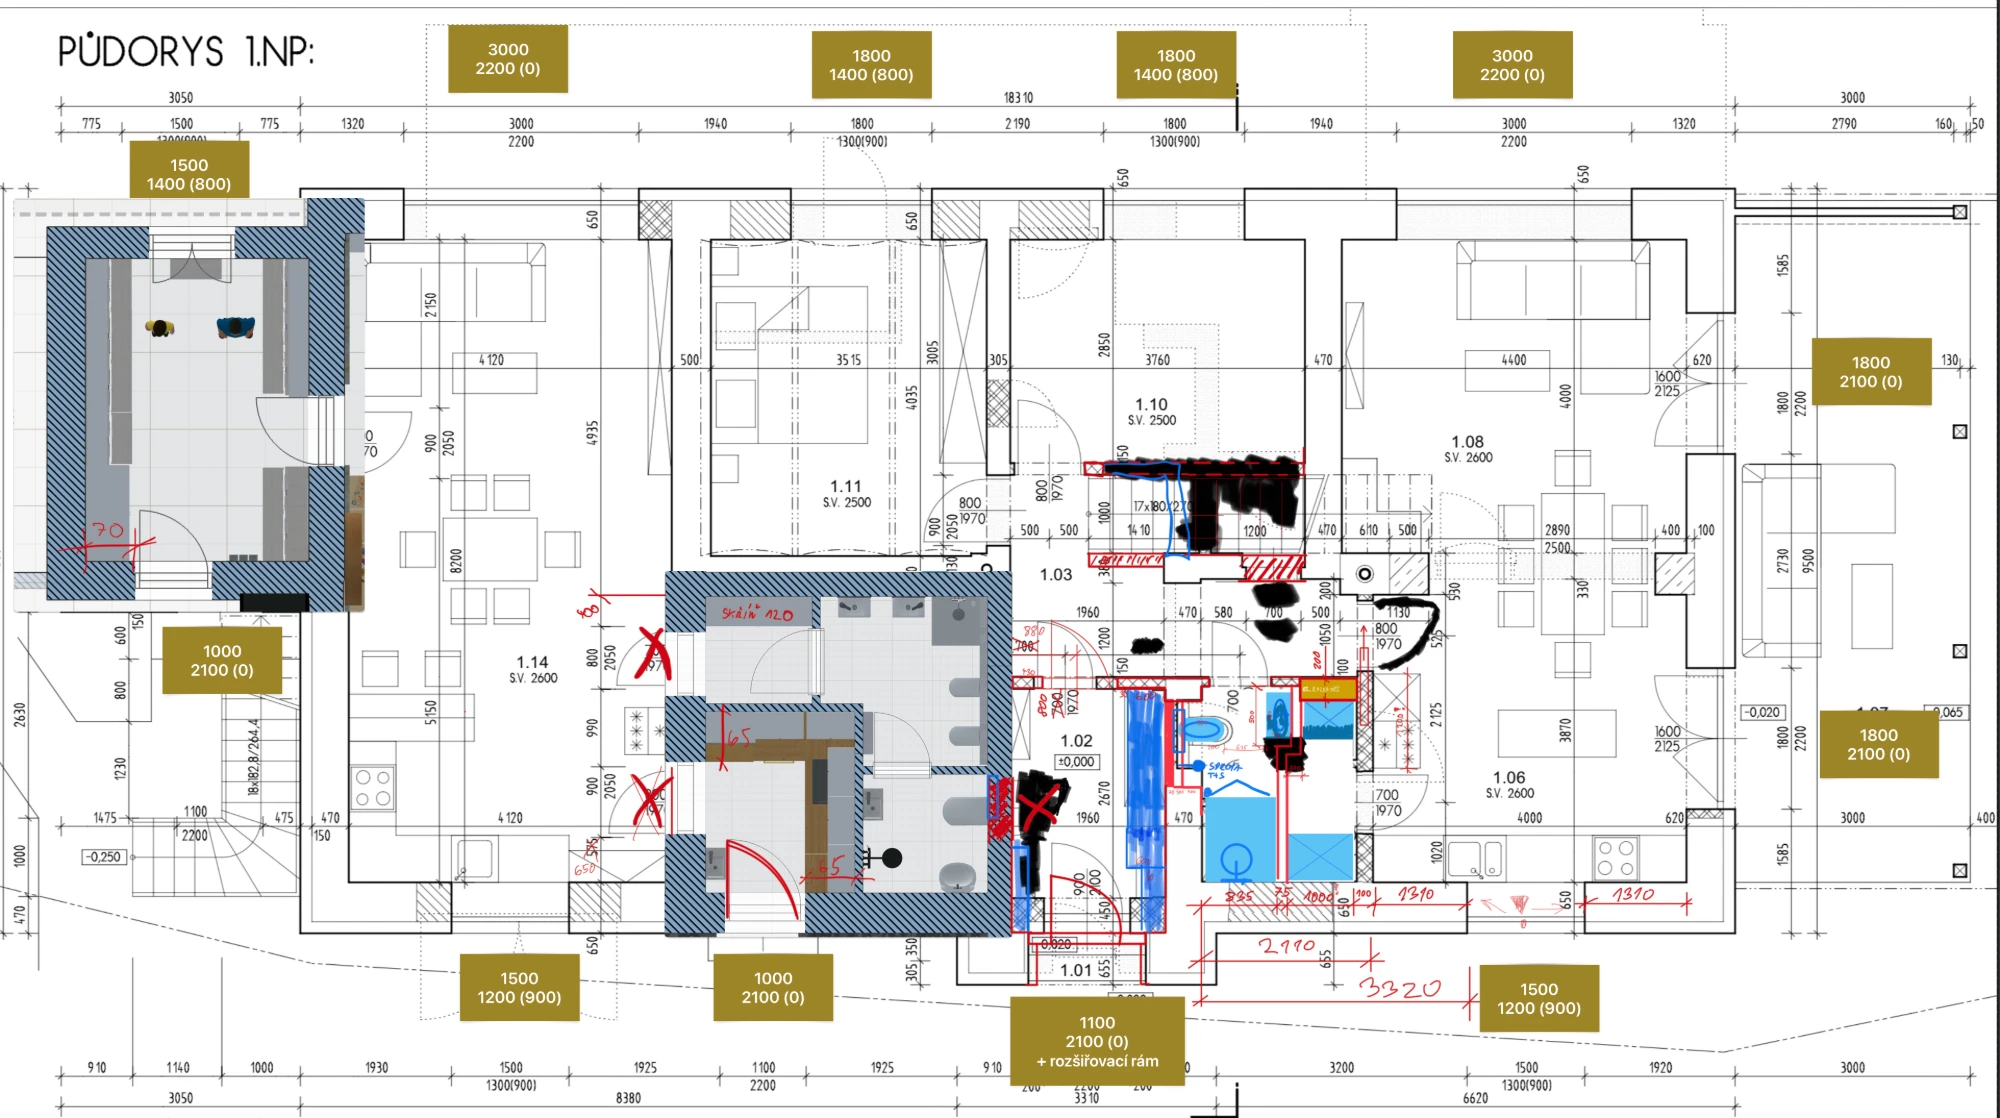
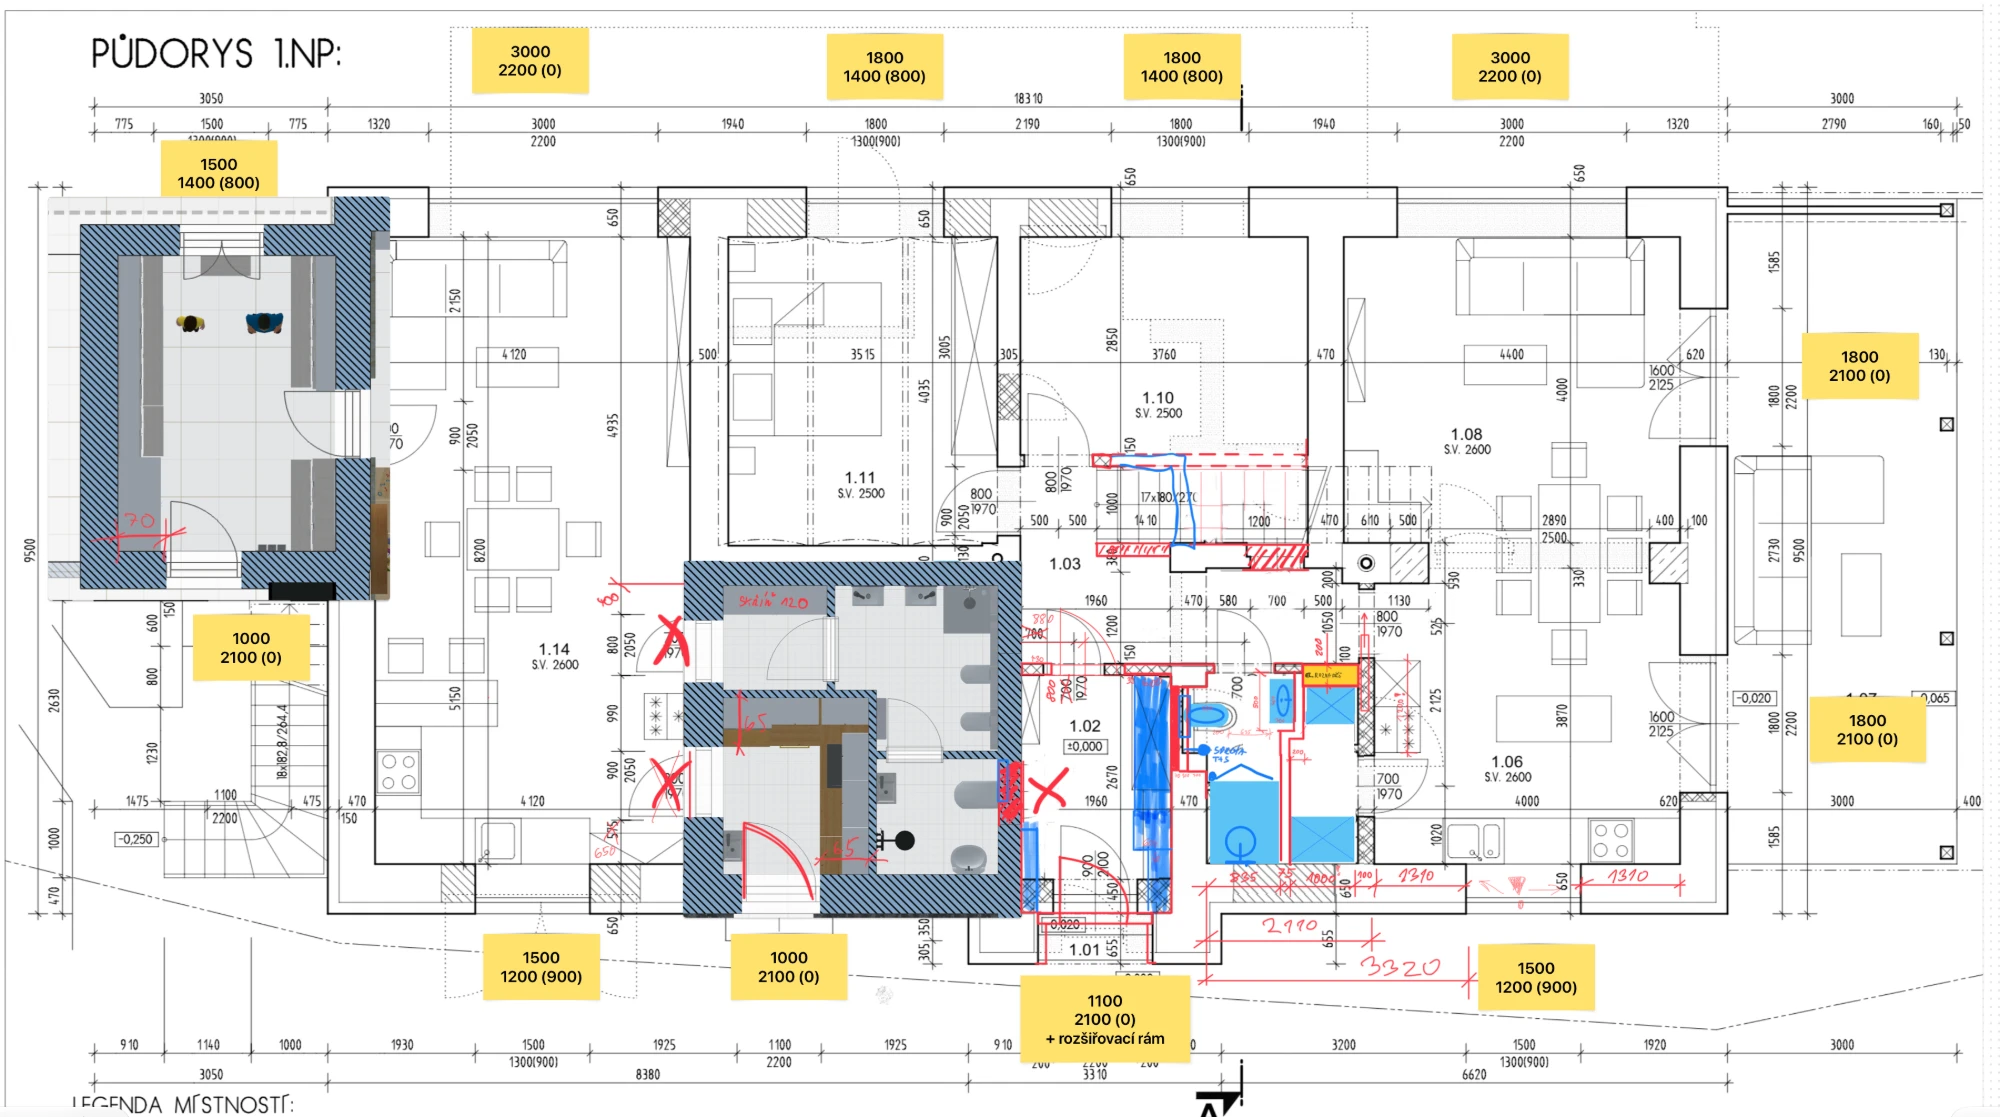
Půdorysy úpravy: nový obrázek 1.NP

diff --git a/pudorysy-upravy/index.html b/pudorysy-upravy/index.html
@@ -45,7 +45,7 @@
   <section class="plan">
     <h2 class="top-title">Půdorys 1.NP</h2>
     <div class="plan-card">
-      <img src="img/pudorys-1np.webp?v=1" alt="Půdorys 1.NP s úpravami" data-caption="Půdorys 1.NP" />
+      <img src="img/pudorys-1np.webp?v=2" alt="Půdorys 1.NP s úpravami" data-caption="Půdorys 1.NP" />
       <div class="plan-caption">Klikni pro zvětšení přes celou obrazovku, dalším klikem na obrázek plné rozlišení.</div>
     </div>
   </section>

diff --git a/CLAUDE.md b/CLAUDE.md
@@ -526,3 +526,4 @@ tagem, který CORS omezení nepodléhá.
 - 2026-11-23 — Půdorysy úpravy: vyměněn obrázek Půdorys 2.NP (`img/pudorys-2np.webp`, `?v=2` kvůli cache).
 - 2026-11-23 — Půdorysy úpravy: přidán Půdorys podkroví (pod 2.NP).
 - 2026-11-23 — Půdorysy úpravy: Půdorys 2.NP a 2.NP vizualizace vedle sebe (půdorys vlevo, `.plan-row`, pod 900 px pod sebou).
+- 2026-11-23 — Půdorysy úpravy: vyměněn obrázek Půdorys 1.NP (`img/pudorys-1np.webp`, `?v=2` kvůli cache).
